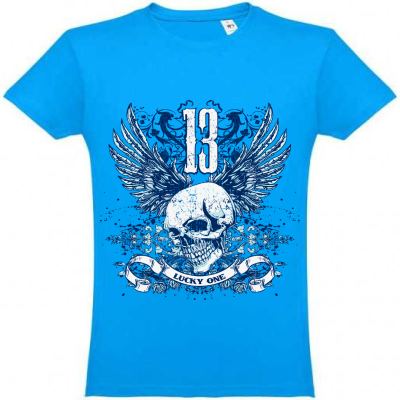
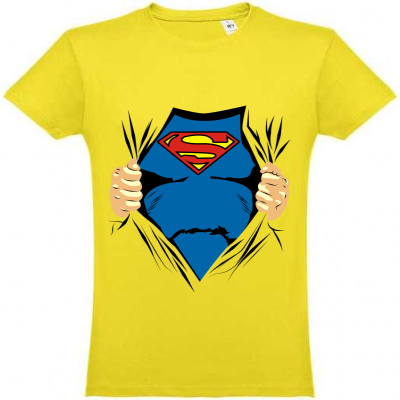
Preview a funcionar
Preview a funcionar

diff --git a/app/Http/Controllers/TshirtPreviewController.php b/app/Http/Controllers/TshirtPreviewController.php
@@ -9,19 +9,23 @@ use Illuminate\Http\Request;
 
 class TshirtPreviewController extends Controller
 {
-    public function createPreview(Request $request, TshirtImage $url)
+    public function createPreview(Request $request)
     {
-        // $colorCode = $request->input('color');
-        // $image_url = $request->input('image_url');
+        // dd('Controller called');
+        $colorCode = $request->input('color');
+        $image_url = $request->input('image_url');
+        // dd($colorCode, $image_url);
 
         // Caminhos para as imagens
-        // $tshirtEmptyPath = public_path('storage/tshirt_base/'.$colorCode.'.jpg');
-        // $tshirtDesignPath = public_path('storage/tshirt_images/'.$image_url.'');
-        // $previewPath = public_path('tshirt_preview.png');
+        $tshirtEmptyPath = public_path('storage/tshirt_base/'.$colorCode.'');
+        $tshirtDesignPath = public_path('storage/tshirt_images/'.$image_url.'');
+        $previewPath = public_path('tshirt_preview.png');
+        
+        // $tshirtEmptyPath = public_path('storage/tshirt_base/1e1e21.jpg');
+        // $tshirtDesignPath = public_path('storage/tshirt_images/1_6477be5abb99f.png');
+        // $previewPath = public_path('storage/tshirt_preview.png');
+        // dd($tshirtEmptyPath, $tshirtDesignPath);
 
-        $tshirtEmptyPath = public_path('storage/tshirt_base/1e1e21.jpg');
-        $tshirtDesignPath = public_path('storage/tshirt_images/2_6477be5abd2a3.png');
-        $previewPath = public_path('storage/tshirt_preview.png');
 
         // Carregar imagens
         $tshirtEmpty = Image::make($tshirtEmptyPath);
@@ -51,6 +55,6 @@ class TshirtPreviewController extends Controller
         return response($imageData)
             ->header('Content-Type', 'image/png')
             ->header('Content-Disposition', 'inline');
-
         }
+
 }

diff --git a/resources/views/order_items/shared/fields.blade.php b/resources/views/order_items/shared/fields.blade.php
@@ -83,7 +83,32 @@
     <div class="col-md-6">
         <div class="mb-3">
             <h3>Preview da T-Shirt</h3>
-            <img src="storage/tshirt_preview.png" alt="Preview da T-Shirt" style="max-width: 100%">
+            <img id="previewImage" src="{{ url(route('preview.update', ['color' => '00a2f2' .'.jpg', 'image_url' => $tshirtImage->image_url])) }}">
         </div>
     </div>
+    
 </div>
+
+
+<script src="https://code.jquery.com/jquery-3.6.0.min.js"></script>
+
+<script>
+    $(document).ready(function() {
+        $('#inputColor').on('change', function() {
+            var colorCode = 'color=' + $(this).val() + '.jpg';
+            var imageUrl = 'image_url={{ $tshirtImage->image_url }}';
+
+            // Construir o URL
+            var previewUrl = '{{ route("preview.update", [":colorCode", ":imageUrl"]) }}';
+            previewUrl = previewUrl.replace(':colorCode', encodeURIComponent(colorCode));
+            previewUrl = previewUrl.replace(':imageUrl', encodeURIComponent(imageUrl));
+
+            // Remover o "amp;" e alterar o %3D para '=' no link
+            previewUrl = previewUrl.replace(/&amp;/g, '&');
+            previewUrl = previewUrl.replace(/%3D/g, '=');
+
+            // Atualizar a imagem
+            $('#previewImage').attr('src', previewUrl);
+        });
+    });
+</script>

diff --git a/app/Models/Color.php b/app/Models/Color.php
@@ -5,6 +5,7 @@ namespace App\Models;
 use App\Models\OrderItem;
 use Illuminate\Database\Eloquent\Model;
 use Illuminate\Database\Eloquent\SoftDeletes;
+use Illuminate\Database\Eloquent\Casts\Attribute;
 use Illuminate\Database\Eloquent\Relations\HasMany;
 use Illuminate\Database\Eloquent\Factories\HasFactory;
 
@@ -24,4 +25,15 @@ class Color extends Model
 
         return $this->hasMany(OrderItem::class, 'color_code', 'code');
     }
+
+    protected function fullColorUrl(): Attribute
+    {
+        return Attribute::make(
+            get: function () {
+                return $this->code ? asset('storage/tshirt_base/' . $this->code.'.jpg') :
+                    asset('img/image_unknown.png');
+            },
+        );
+    }
+
 }

diff --git a/routes/web.php b/routes/web.php
@@ -95,3 +95,5 @@ Route::delete('users/{user}/foto', [UserController::class, 'destroy_foto'])
 
 // Route::get('/tshirt/preview', [TshirtPreviewController::class, 'createPreview']);
 Route::get('/preview', [TshirtPreviewController::class, 'createPreview'])->name('preview.create');
+Route::post('/preview/update', [TshirtPreviewController::class, 'createPreview'])->name('preview.update');
+
